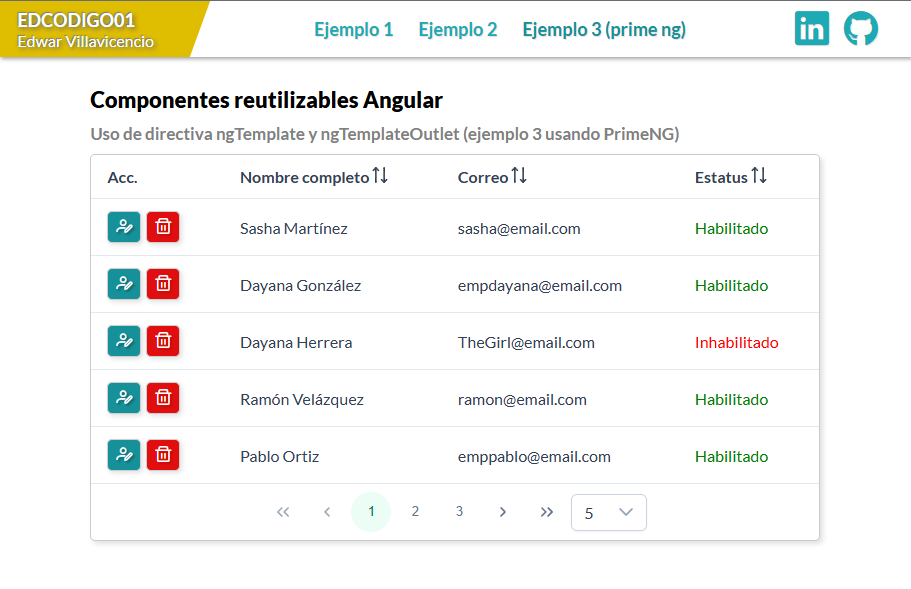
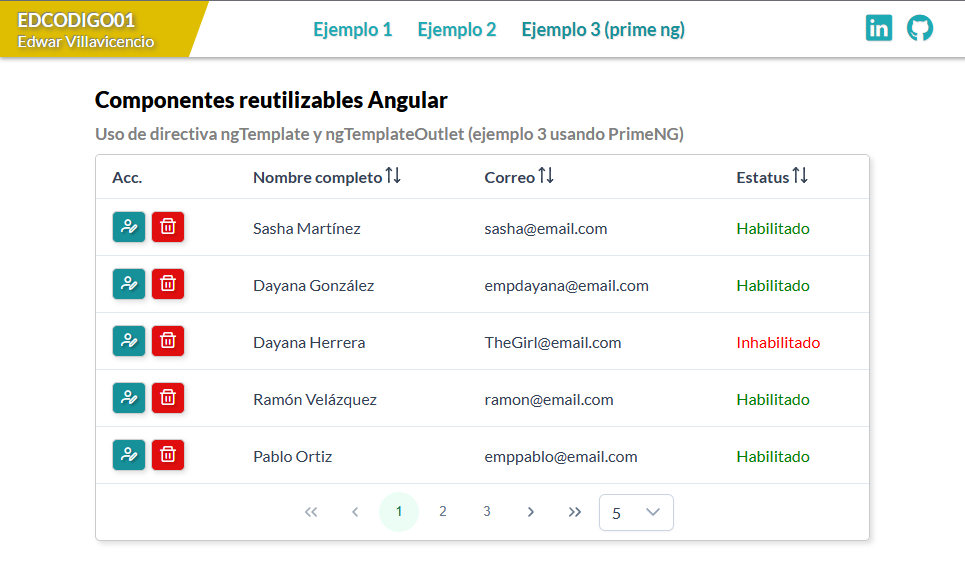
completado

diff --git a/src/app/shared/layout/navbar/navbar.component.css b/src/app/shared/layout/navbar/navbar.component.css
@@ -60,7 +60,7 @@
       a {
         margin-right: 15px !important;
         .pi {
-          font-size: 34px !important;
+          font-size: 26px !important;
         }
       }
     }

diff --git a/README.md b/README.md
@@ -12,7 +12,7 @@ Ejemplos sobre el uso de componentes reutilizables en angular, especialmente apl
 
 4. ingresar a http://localhost:4200 desde cualquier navegador, para ver e interactuar con la aplicación.
 
-## vista previa
+## Vista previa
 
 ![alt text](https://github.com/Edcodigo01/CompReuseNgoutletAng/blob/main/src/assets/images/vista-previa.png?raw=true)
 
